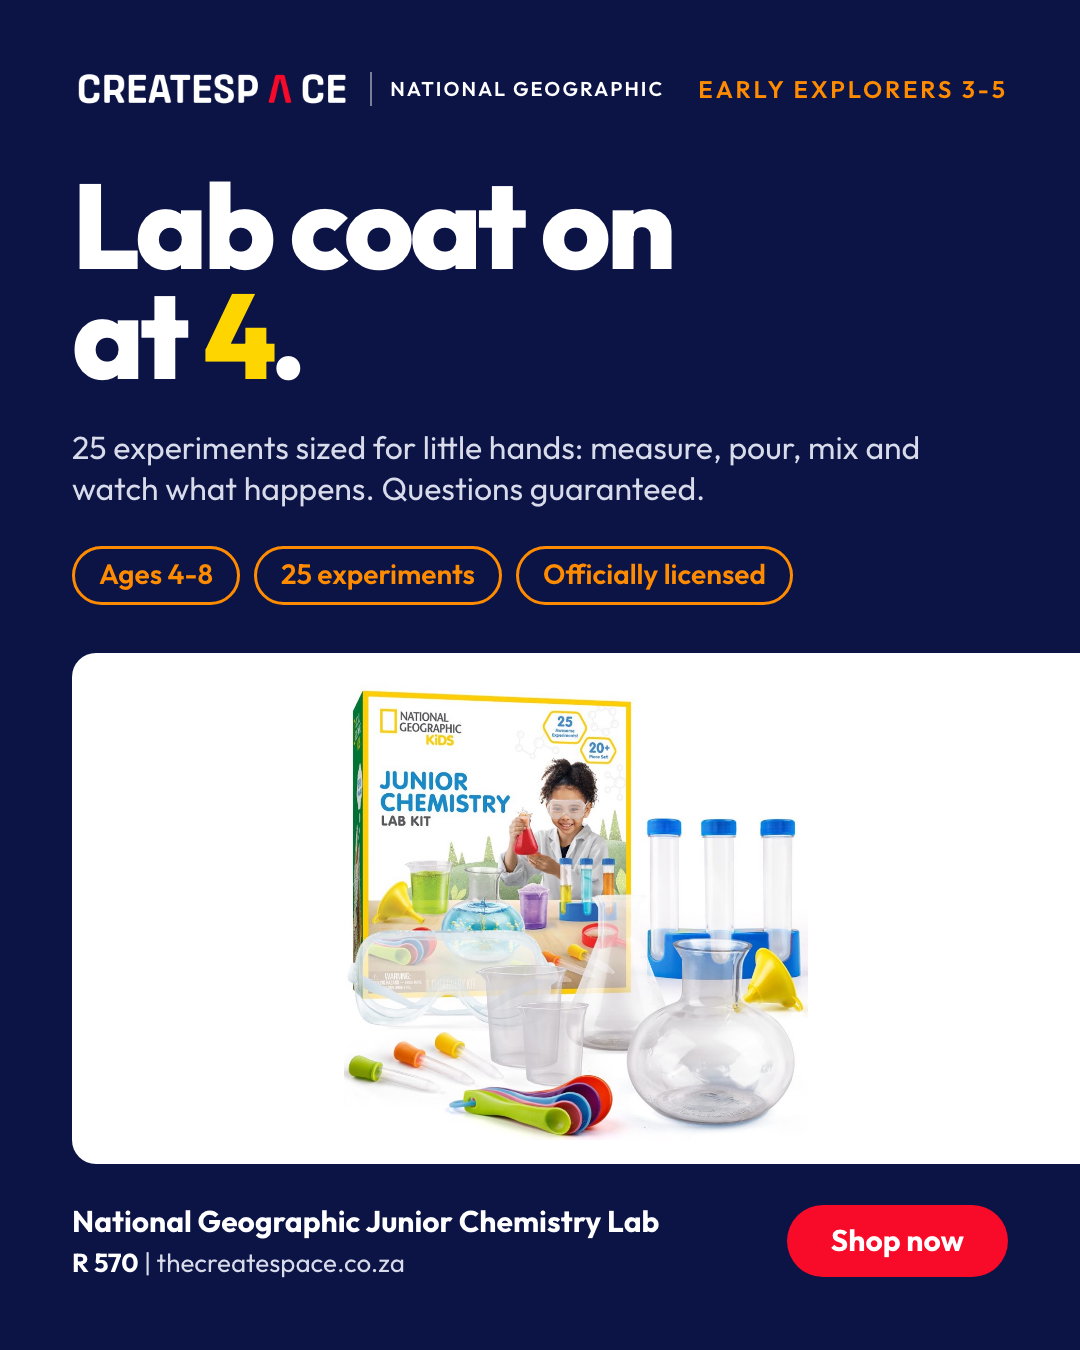
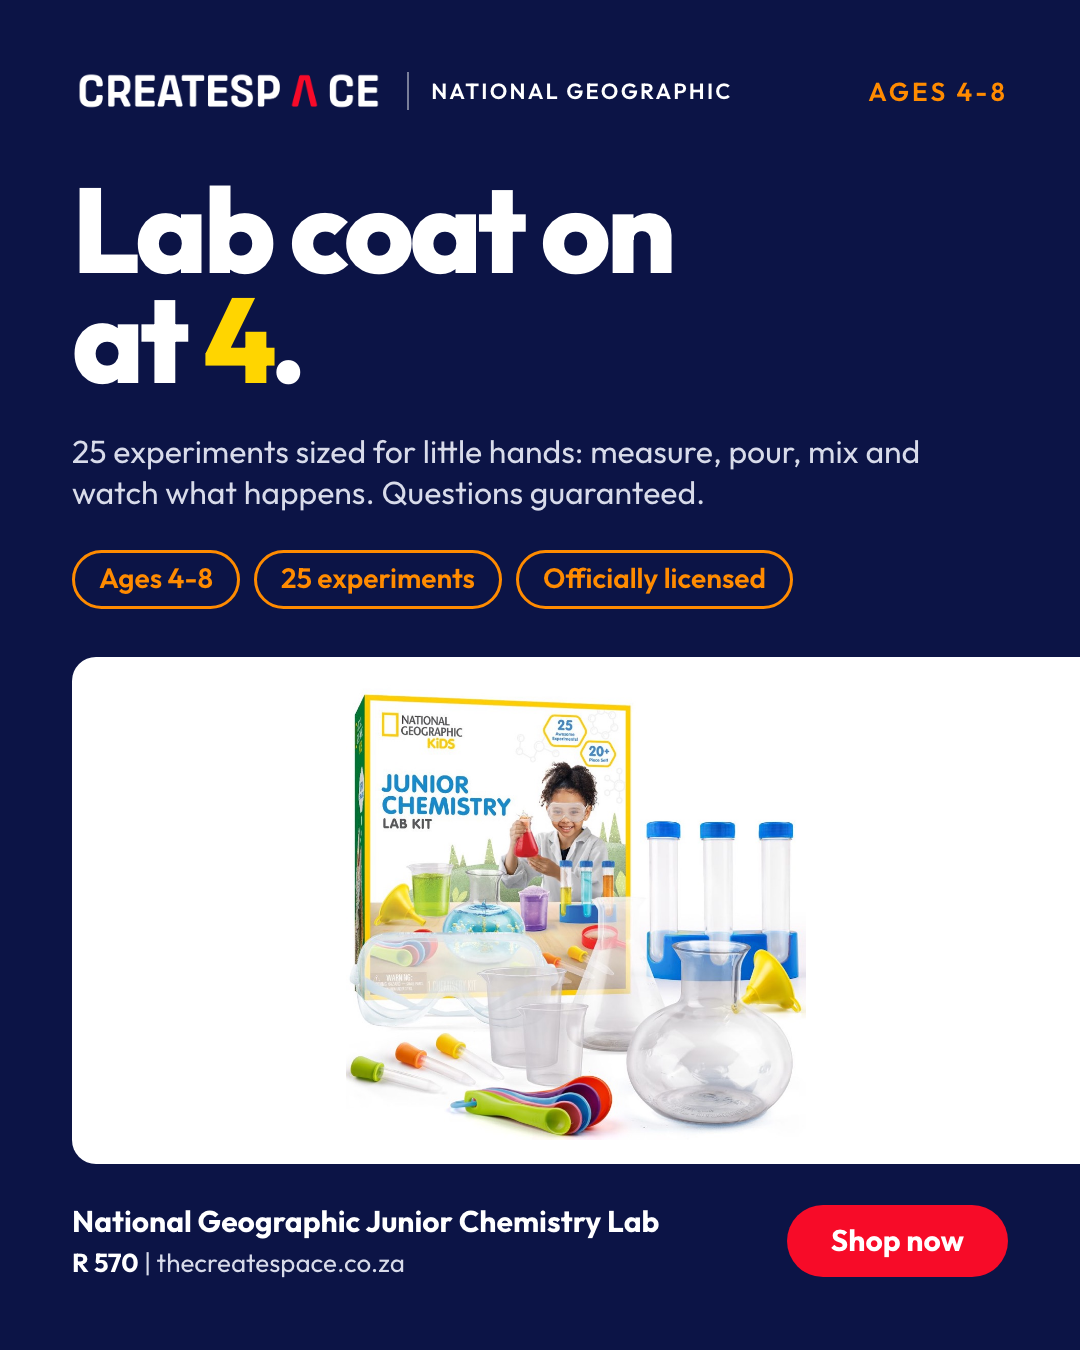
Set A6 series label to "Ages 4-8" and restore A4 lockup sizes

diff --git a/marketing/campaigns/2026-10-natgeo-junior-chemistry-at-4/feed-portrait.html b/marketing/campaigns/2026-10-natgeo-junior-chemistry-at-4/feed-portrait.html
@@ -19,35 +19,29 @@
     }
 
     /* Co-brand lockup: wordmark, hairline, partner name set in Outfit.
-       Text only; the National Geographic logo appears on the box alone.
-       Sized down from A4 so the longer series label fits on the same row. */
+       Text only; the National Geographic logo appears on the box alone. */
     .lockup {
       display: flex;
       align-items: center;
-      gap: 18px;
+      gap: 22px;
     }
 
     .lockup .wordmark {
-      height: 34px;
+      height: 38px;
     }
 
     .lockup .rule {
       width: 2px;
-      height: 34px;
+      height: 38px;
       background: rgba(255, 255, 255, 0.45);
     }
 
     .partner {
       margin: 0;
-      font-size: 20px;
+      font-size: 22px;
       font-weight: 600;
       line-height: 1;
       letter-spacing: 0.1em;
-      white-space: nowrap;
-    }
-
-    .series {
-      font-size: 24px;
       white-space: nowrap;
     }
   </style>
@@ -60,7 +54,7 @@
         <span class="rule" aria-hidden="true"></span>
         <p class="partner">NATIONAL GEOGRAPHIC</p>
       </div>
-      <p class="series">Early explorers 3-5</p>
+      <p class="series">Ages 4-8</p>
     </div>
 
     <h1>

diff --git a/marketing/campaigns/2026-10-natgeo-junior-chemistry-at-4/story.html b/marketing/campaigns/2026-10-natgeo-junior-chemistry-at-4/story.html
@@ -19,35 +19,29 @@
     }
 
     /* Co-brand lockup: wordmark, hairline, partner name set in Outfit.
-       Text only; the National Geographic logo appears on the box alone.
-       Sized down from A4 so the longer series label fits on the same row. */
+       Text only; the National Geographic logo appears on the box alone. */
     .lockup {
       display: flex;
       align-items: center;
-      gap: 18px;
+      gap: 22px;
     }
 
     .lockup .wordmark {
-      height: 34px;
+      height: 38px;
     }
 
     .lockup .rule {
       width: 2px;
-      height: 34px;
+      height: 38px;
       background: rgba(255, 255, 255, 0.45);
     }
 
     .partner {
       margin: 0;
-      font-size: 20px;
+      font-size: 22px;
       font-weight: 600;
       line-height: 1;
       letter-spacing: 0.1em;
-      white-space: nowrap;
-    }
-
-    .series {
-      font-size: 24px;
       white-space: nowrap;
     }
   </style>
@@ -60,7 +54,7 @@
         <span class="rule" aria-hidden="true"></span>
         <p class="partner">NATIONAL GEOGRAPHIC</p>
       </div>
-      <p class="series">Early explorers 3-5</p>
+      <p class="series">Ages 4-8</p>
     </div>
 
     <h1>

diff --git a/marketing/campaigns/2026-10-natgeo-junior-chemistry-at-4/brief.md b/marketing/campaigns/2026-10-natgeo-junior-chemistry-at-4/brief.md
@@ -35,9 +35,9 @@ At 4 a child can do real experiments: measure, pour, mix and watch what happens,
 
 ## Series layout (A1-A6)
 
-`age-series.css` is copied unchanged from A1 (`2026-10-tale-bot-coding-at-3`). This ad sets `--accent` to orange, plus its copy, photo and product. Series label "Early explorers 3-5", top right, in the accent, as the brief gave it.
+`age-series.css` is copied unchanged from A1 (`2026-10-tale-bot-coding-at-3`). This ad sets `--accent` to orange, plus its copy, photo and product. Series label "Ages 4-8", top right, in the accent, matching the kit and the first pill (as A4 and A5 do).
 
-The co-brand lockup "CREATESPACE | NATIONAL GEOGRAPHIC" is carried over from A4 (`2026-10-natgeo-epic-circuits-at-8`), in the ad's own `<style>`. "Early explorers 3-5" is the longest label in the series, so the lockup is a step smaller than in A4 (wordmark 34px instead of 38px, partner name 20px instead of 22px) and the label is 24px instead of 26px. Without that the label wraps into the lockup.
+The co-brand lockup "CREATESPACE | NATIONAL GEOGRAPHIC" is carried over unchanged from A4 (`2026-10-natgeo-epic-circuits-at-8`), in the ad's own `<style>`.| NATIONAL GEOGRAPHIC" is carried over from A4 (`2026-10-natgeo-epic-circuits-at-8`), in the ad's own `<style>`. "Early explorers 3-5" is the longest label in the series, so the lockup is a step smaller than in A4 (wordmark 34px instead of 38px, partner name 20px instead of 22px) and the label is 24px instead of 26px. Without that the label wraps into the lockup.
 
 ## Assets
 
@@ -60,6 +60,7 @@ The co-brand lockup "CREATESPACE | NATIONAL GEOGRAPHIC" is carried over from A4 
 
 ## Notes
 
+- The brief gave the series label as "Early explorers 3-5" (the A1 band). Changed to "Ages 4-8" on 2026-10-22 so it matches the kit.
 - The brief wrote the price as "R570". The image uses "R 570" to follow the house money format, as A1-A5 did.
 - The CTA stays red, as the series asks.
 - Orange is also A2's accent (VinciBot). The two won't sit side by side in a carousel unless we choose to.
@@ -75,5 +76,4 @@ The co-brand lockup "CREATESPACE | NATIONAL GEOGRAPHIC" is carried over from A4 
 
 ## Open questions
 
-- **Series label vs ages.** The label reads "Early explorers 3-5" (as briefed, same band as A1) while the kit and the pill say 4-8. A 3-5 label on a 4-8 kit may read as a contradiction. A3 used "Junior Innovators 6-8"; consider "Ages 4-8" as A4 and A5 did.
 - Recheck the R 570 price in Shopify on upload day.
